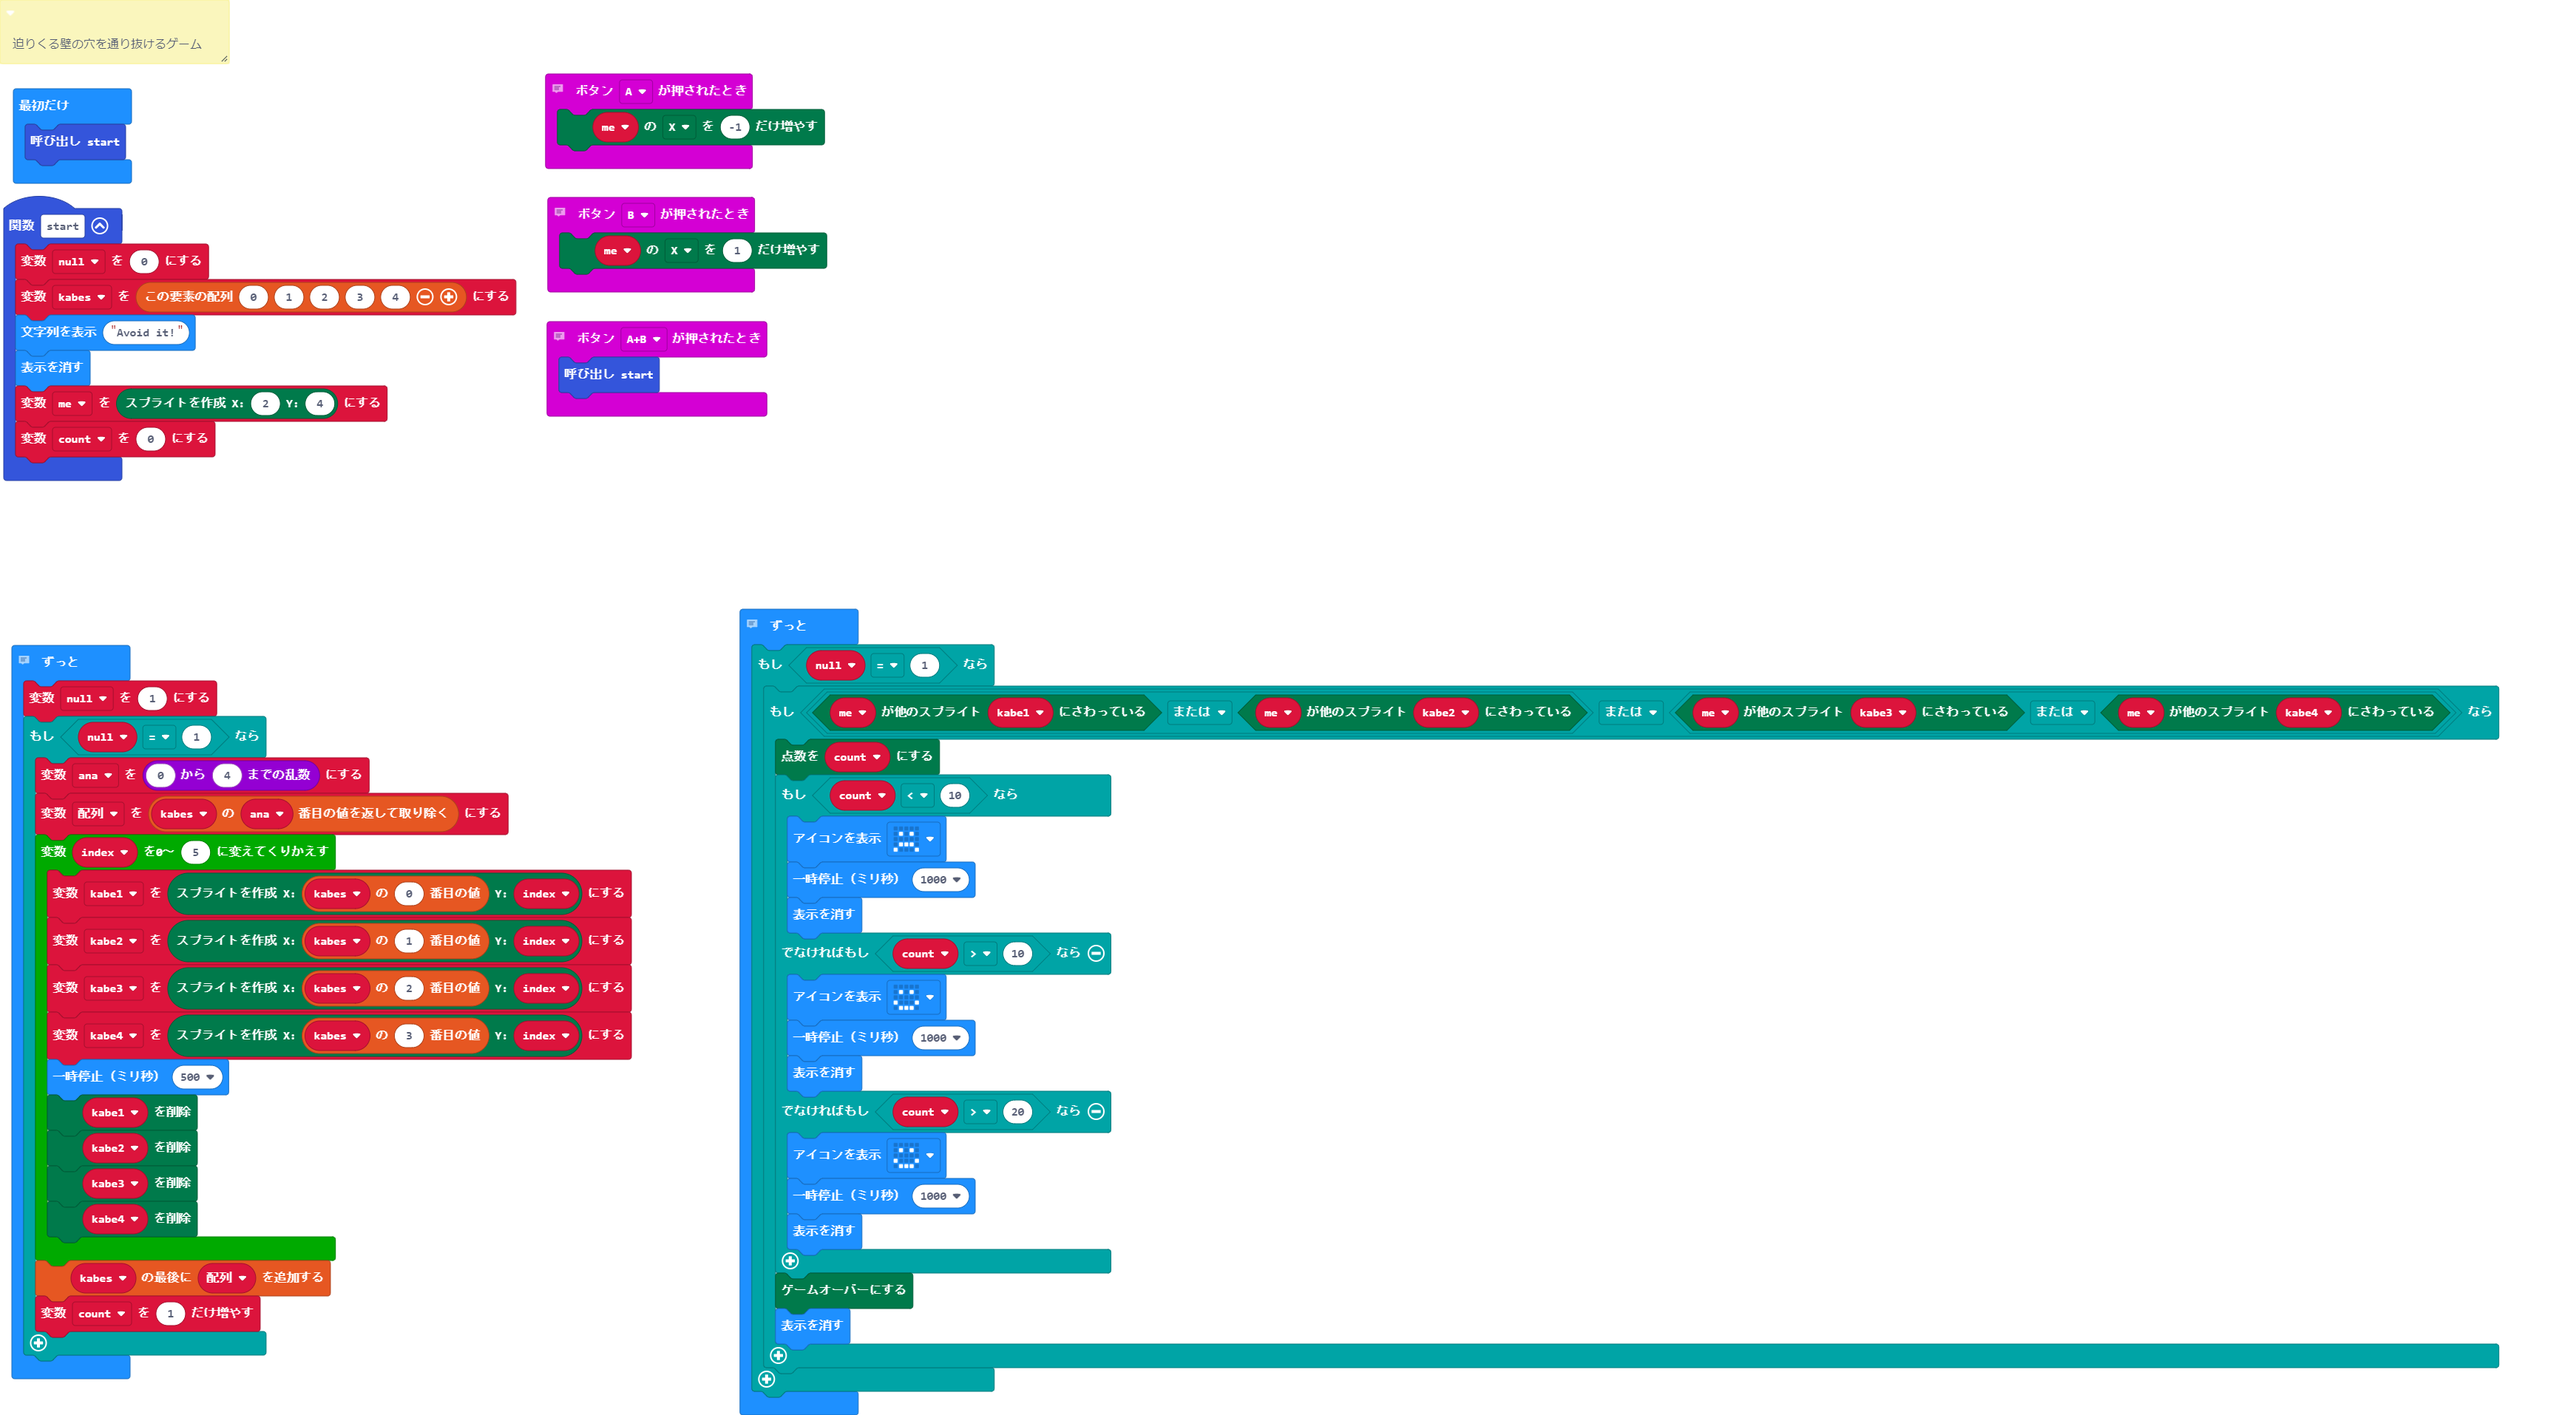
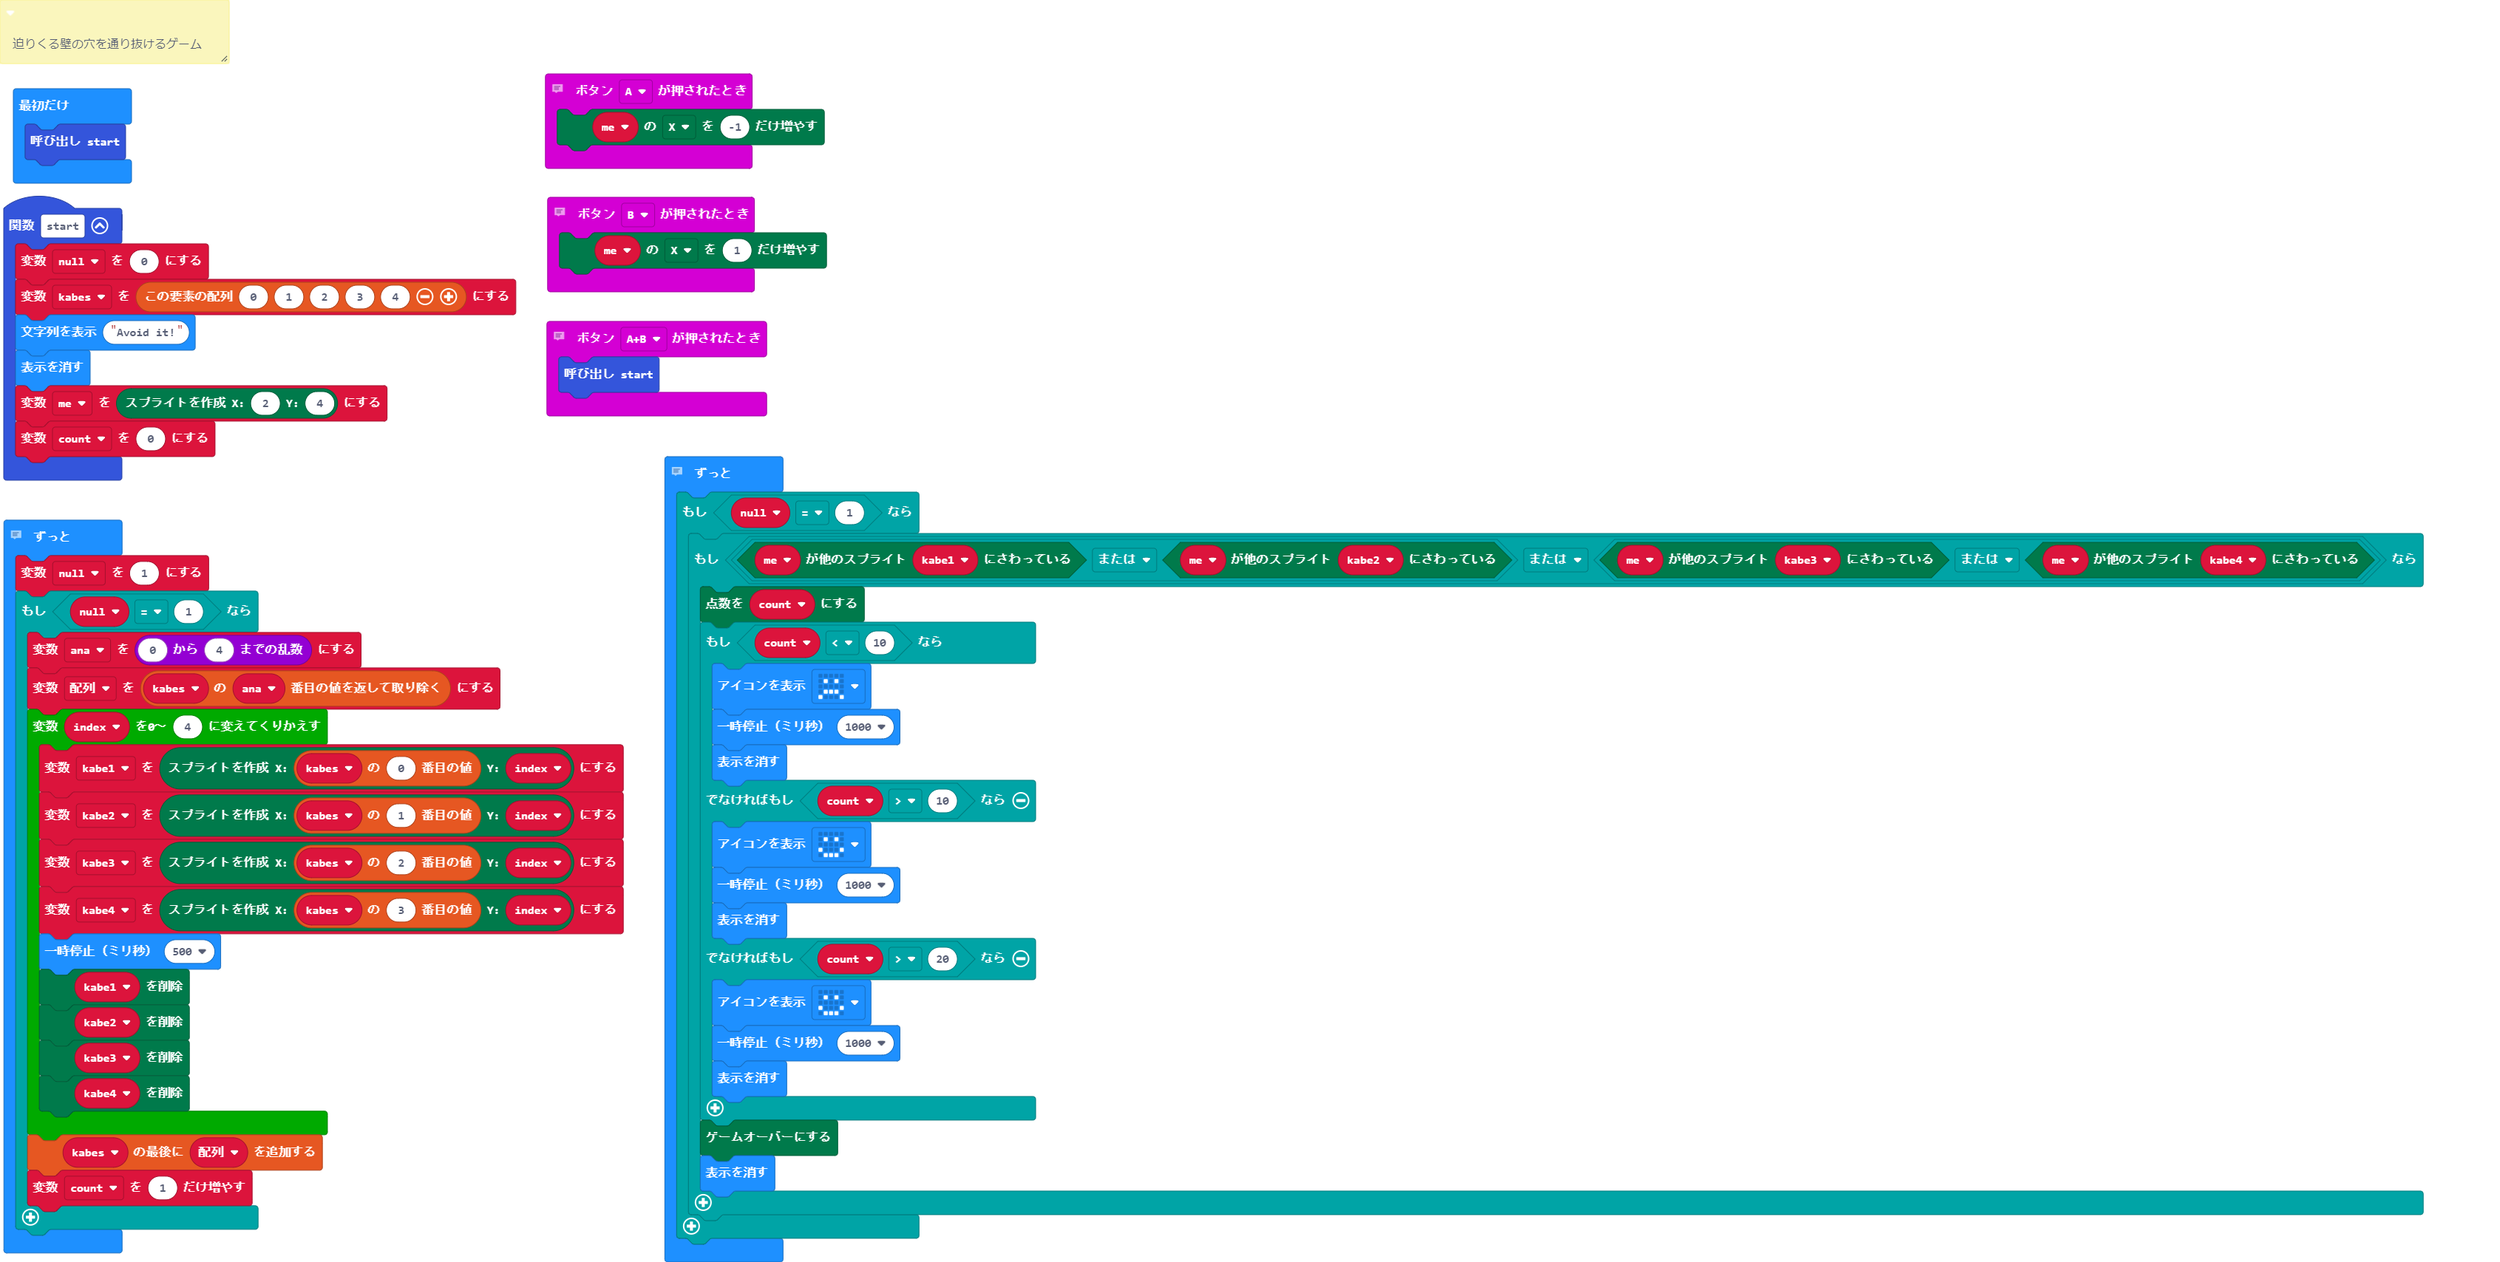
更新 main.blocks, main.ts

Changed region(s): [[0.0, 0.0, 0.9935, 1.0]]

diff --git a/main.ts b/main.ts
@@ -21,38 +21,17 @@ function start () {
     me = game.createSprite(2, 4)
     count = 0
 }
+let 配列 = 0
+let ana = 0
 let kabe4: game.LedSprite = null
 let kabe3: game.LedSprite = null
 let kabe2: game.LedSprite = null
 let kabe1: game.LedSprite = null
-let 配列 = 0
-let ana = 0
 let count = 0
 let kabes: number[] = []
 let _null = 0
 let me: game.LedSprite = null
 start()
-// 壁が迫ってくる
-basic.forever(function () {
-    _null = 1
-    if (_null == 1) {
-        ana = randint(0, 4)
-        配列 = kabes.removeAt(ana)
-        for (let index = 0; index <= 5; index++) {
-            kabe1 = game.createSprite(kabes[0], index)
-            kabe2 = game.createSprite(kabes[1], index)
-            kabe3 = game.createSprite(kabes[2], index)
-            kabe4 = game.createSprite(kabes[3], index)
-            basic.pause(500)
-            kabe1.delete()
-            kabe2.delete()
-            kabe3.delete()
-            kabe4.delete()
-        }
-        kabes.push(配列)
-        count += 1
-    }
-})
 // 壁に当たってしまうとゲームオーバーになる。
 // 通り抜けた壁の数で点数が決まり、点数によって表示される表情が変化する。
 // 
@@ -76,5 +55,26 @@ basic.forever(function () {
             game.gameOver()
             basic.clearScreen()
         }
+    }
+})
+// 壁が迫ってくる
+basic.forever(function () {
+    _null = 1
+    if (_null == 1) {
+        ana = randint(0, 4)
+        配列 = kabes.removeAt(ana)
+        for (let index = 0; index <= 4; index++) {
+            kabe1 = game.createSprite(kabes[0], index)
+            kabe2 = game.createSprite(kabes[1], index)
+            kabe3 = game.createSprite(kabes[2], index)
+            kabe4 = game.createSprite(kabes[3], index)
+            basic.pause(500)
+            kabe1.delete()
+            kabe2.delete()
+            kabe3.delete()
+            kabe4.delete()
+        }
+        kabes.push(配列)
+        count += 1
     }
 })
